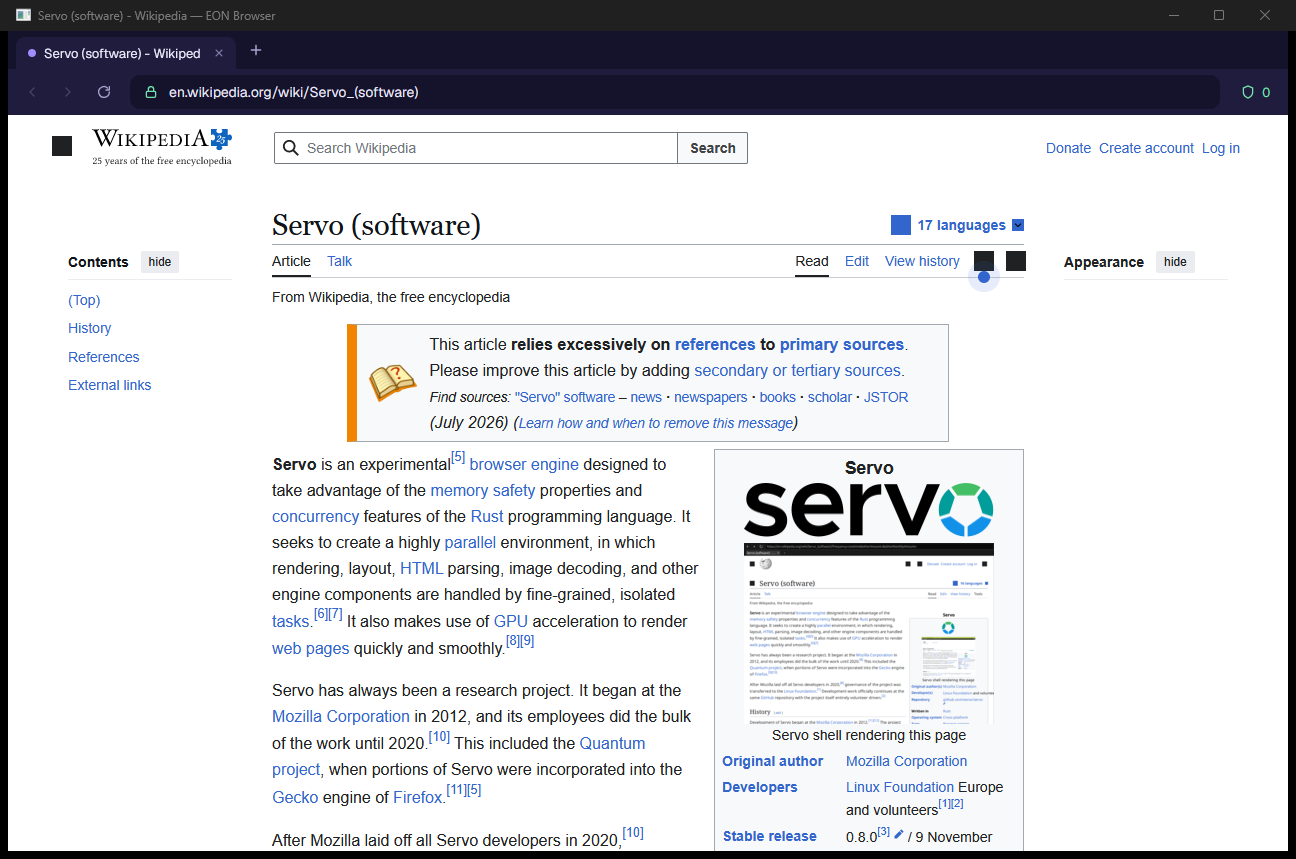
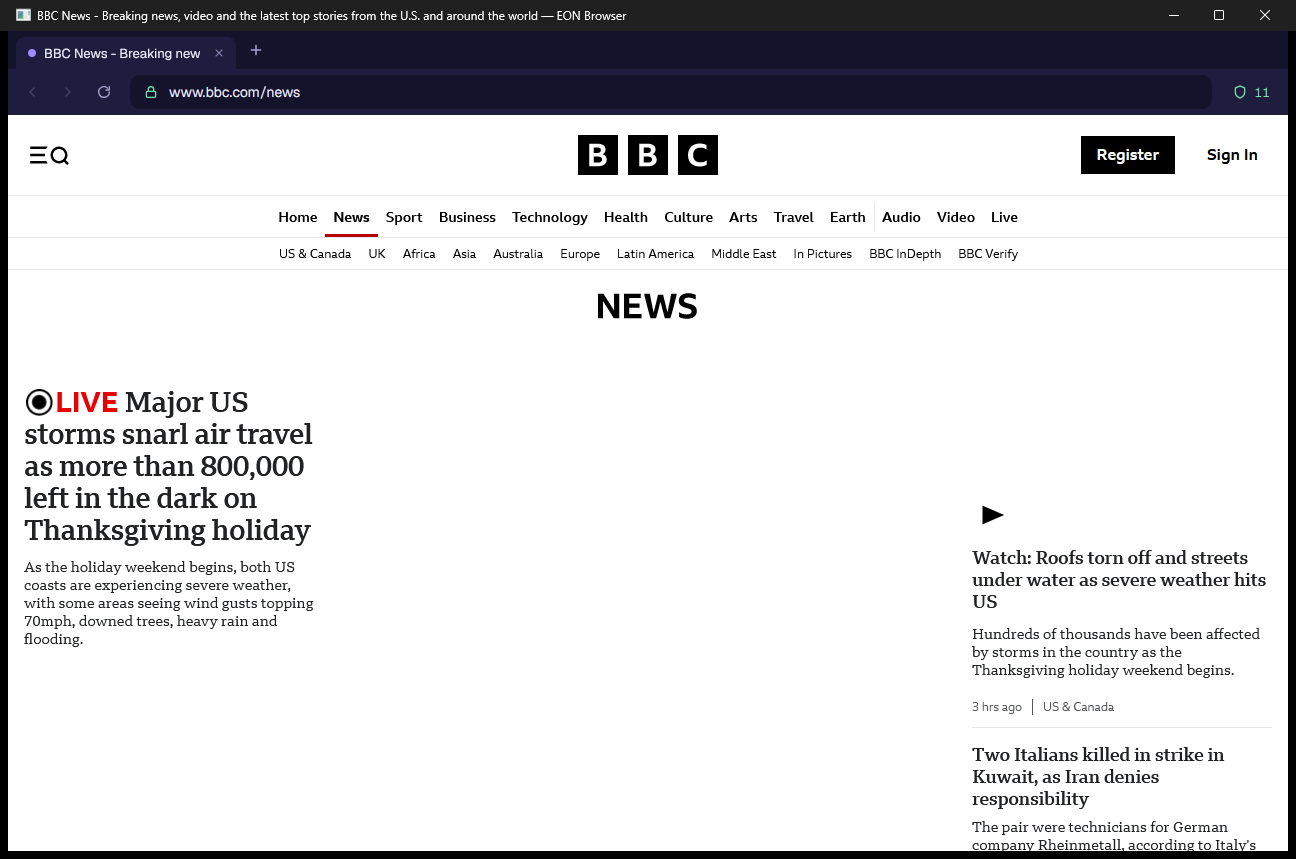
fix(ci): build the binary before the self-test; advisories checked
Three advisories reach the browser only through Servo, each written in
deny.toml with its reachability and when to remove it: SQLite before 3.54
(RUSTSEC-2026-0459), rsa's Marvin timing (RUSTSEC-2023-0071, Web Crypto),
cookie's PrivateJar after fork (RUSTSEC-2026-0594).

The window's picture is now the release build on BBC News, with 11
trackers blocked.

diff --git a/README.md b/README.md
@@ -9,7 +9,7 @@ A web browser on **Servo**, the open engine written in Rust — not Chromium, no
 webview (plan madde 50). Blocking built in, no telemetry, no AI, and no request at all
 until you open a page. Windows, Linux and macOS. **Early alpha.**
 
-![EON Browser showing Wikipedia](docs/window.png)
+![EON Browser on BBC News, 11 trackers blocked](docs/window.png)
 
 ## What it does
 
